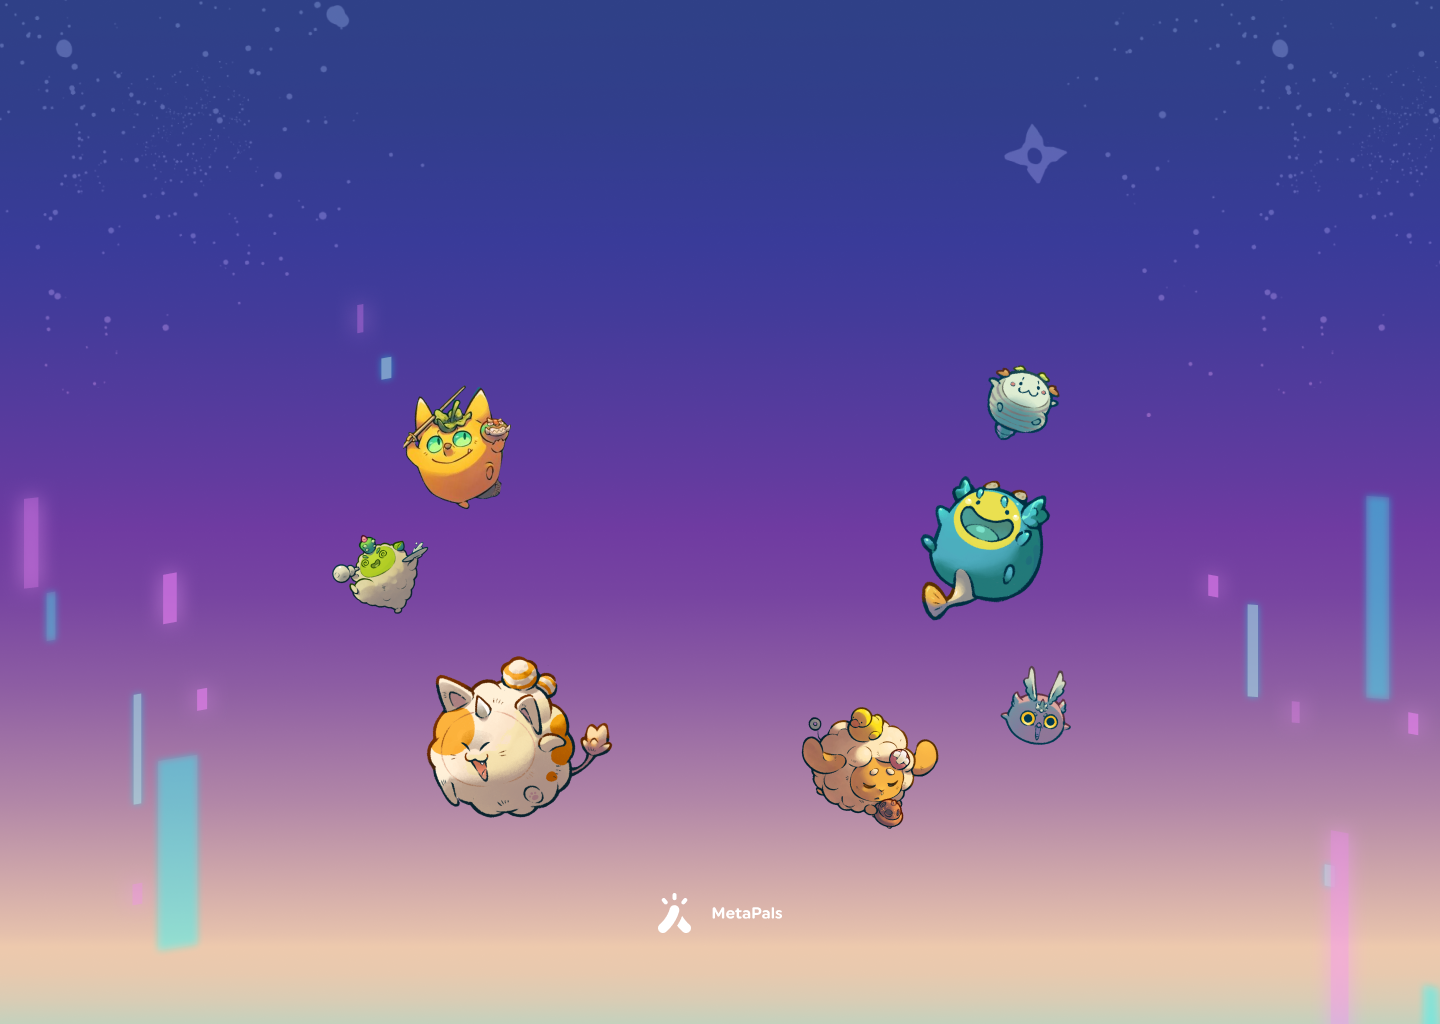
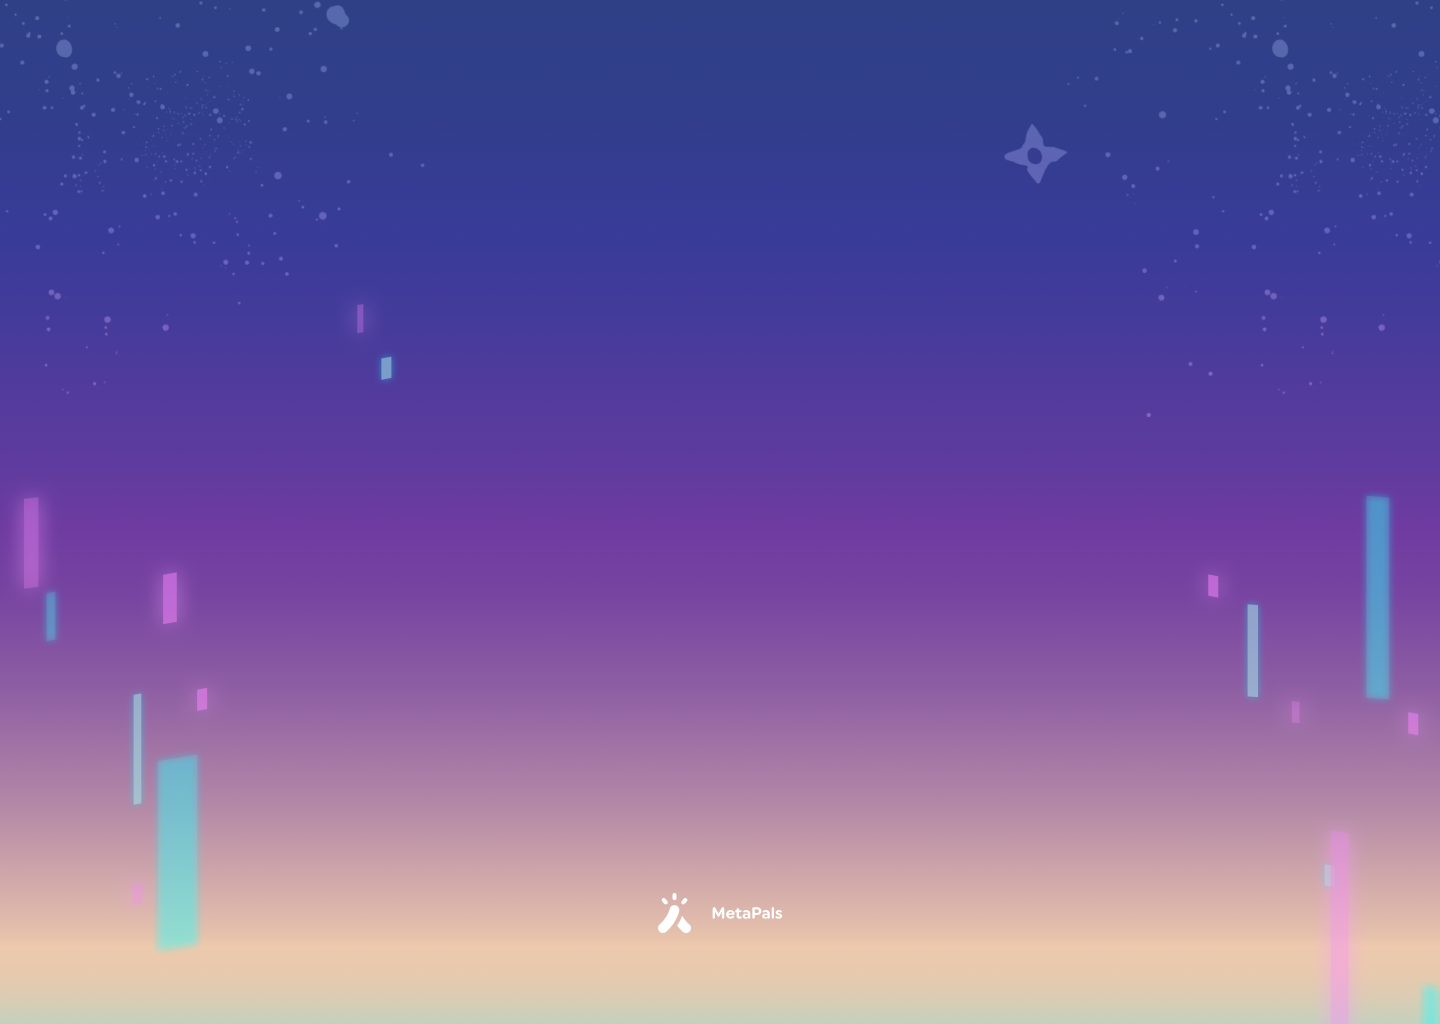
feat: replace background, add axie pics on main page

diff --git a/src/app/home/page.tsx b/src/app/home/page.tsx
@@ -22,7 +22,64 @@ export default function AxieHome() {
         />
 
         {/* buttons */}
-        <div className="flex aspect-video w-80 flex-col items-center gap-2 rounded-xl border-4 border-white bg-white/75 p-2 text-center text-sm text-[#333] md:w-[30rem] md:p-6 md:text-base">
+        <div className="relative flex aspect-video w-80 flex-col items-center gap-2 rounded-xl border-4 border-white bg-white/75 p-2 text-center text-sm text-[#333] md:w-[30rem] md:p-6 md:text-base">
+          {/* Axie beasts */}
+          <Image
+            alt=""
+            height={300}
+            width={300}
+            className="absolute -left-[8rem] top-[12rem] w-56"
+            src={"/Axie_1.webp"}
+            draggable={false}
+          />
+          <Image
+            alt=""
+            height={300}
+            width={300}
+            className="absolute left-[27rem] top-[9rem] w-36"
+            src={"/Axie_2.webp"}
+            draggable={false}
+          />
+          <Image
+            alt=""
+            height={300}
+            width={300}
+            className="absolute left-[35rem] top-[20rem] w-24"
+            src={"/Axie_3.webp"}
+            draggable={false}
+          />
+          <Image
+            alt=""
+            height={300}
+            width={300}
+            className="absolute -top-[2rem] left-[32rem] w-28"
+            src={"/Axie_4.webp"}
+            draggable={false}
+          />
+          <Image
+            alt=""
+            height={300}
+            width={300}
+            className="absolute left-[16rem] top-[23rem] w-32"
+            src={"/Axie_5.webp"}
+            draggable={false}
+          />
+          <Image
+            alt=""
+            height={300}
+            width={300}
+            className="absolute -left-[13rem] top-[5rem] w-32"
+            src={"/Axie_6.webp"}
+            draggable={false}
+          />
+          <Image
+            alt=""
+            height={300}
+            width={300}
+            className="absolute -left-[8rem] -top-[10rem] w-48"
+            src={"/Axie_7.webp"}
+            draggable={false}
+          />
           <p className="text-2xl font-bold text-[#10102B]">
             Meet your Axie Companion with MetaPals!
           </p>

diff --git a/tailwind.config.ts b/tailwind.config.ts
@@ -11,7 +11,7 @@ const config: Config = {
     extend: {
       backgroundImage: {
         axie: "url('/Axie_Main_BG.webp')",
-        form: "url('/Axie_Form_BG.webp')",
+        // form: "url('/Axie_Form_BG.webp')",
         mobile: "url('/Axie_Mobile_BG.webp')",
         bottom_bar: "url('/Axie_Bottom_BG.webp')",
       },
